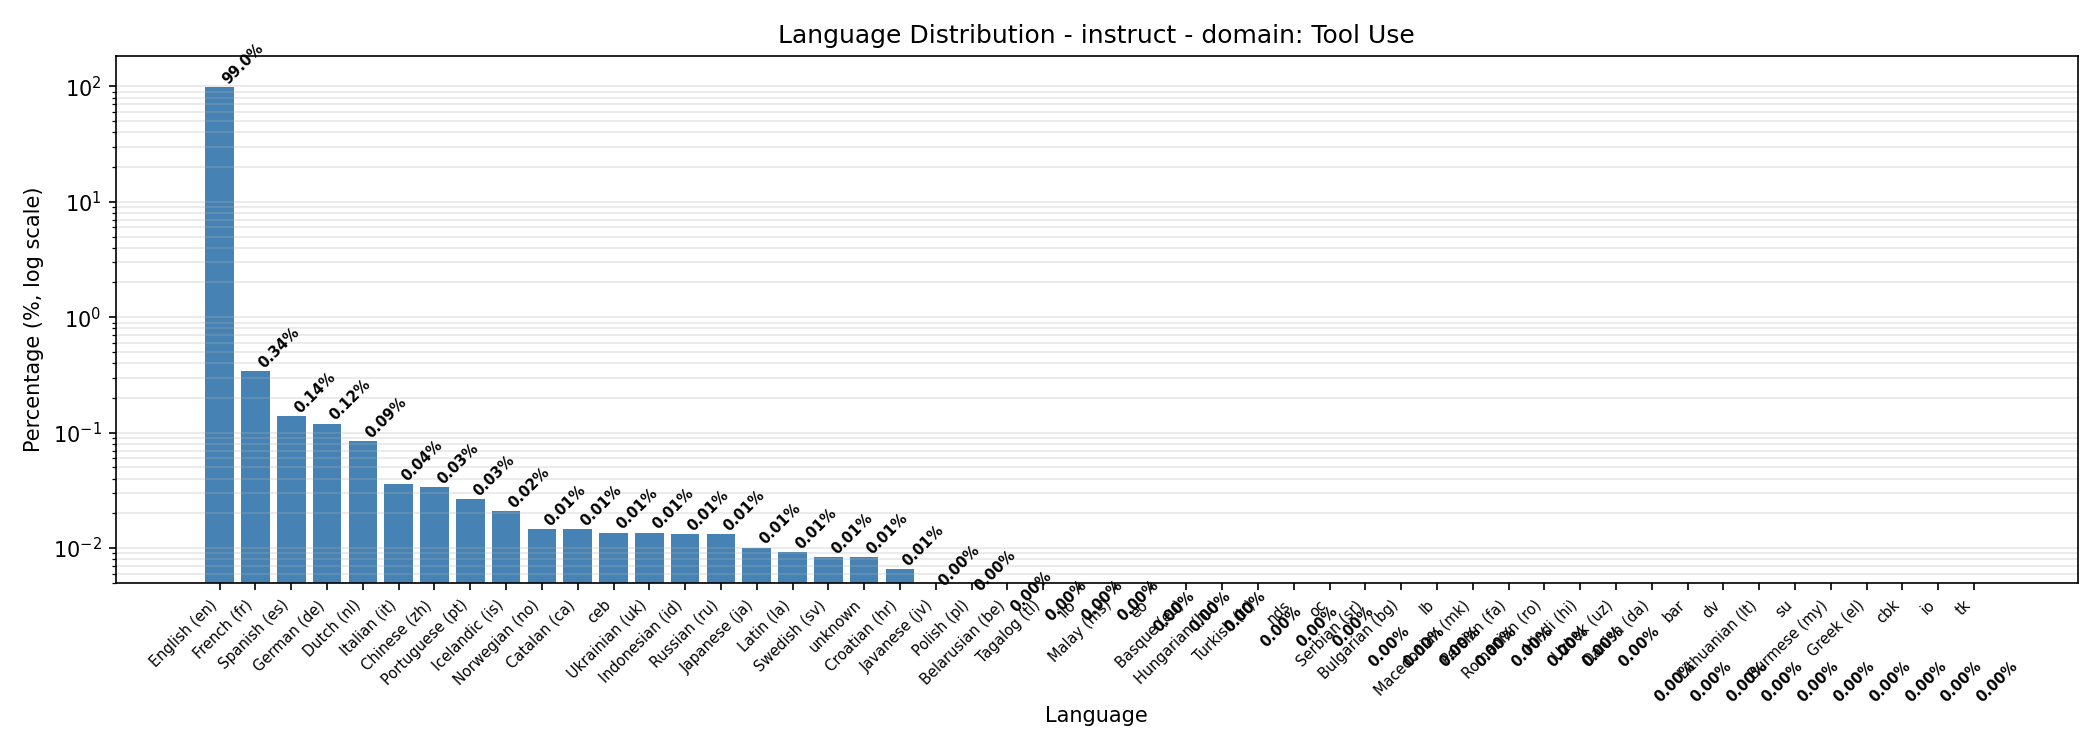
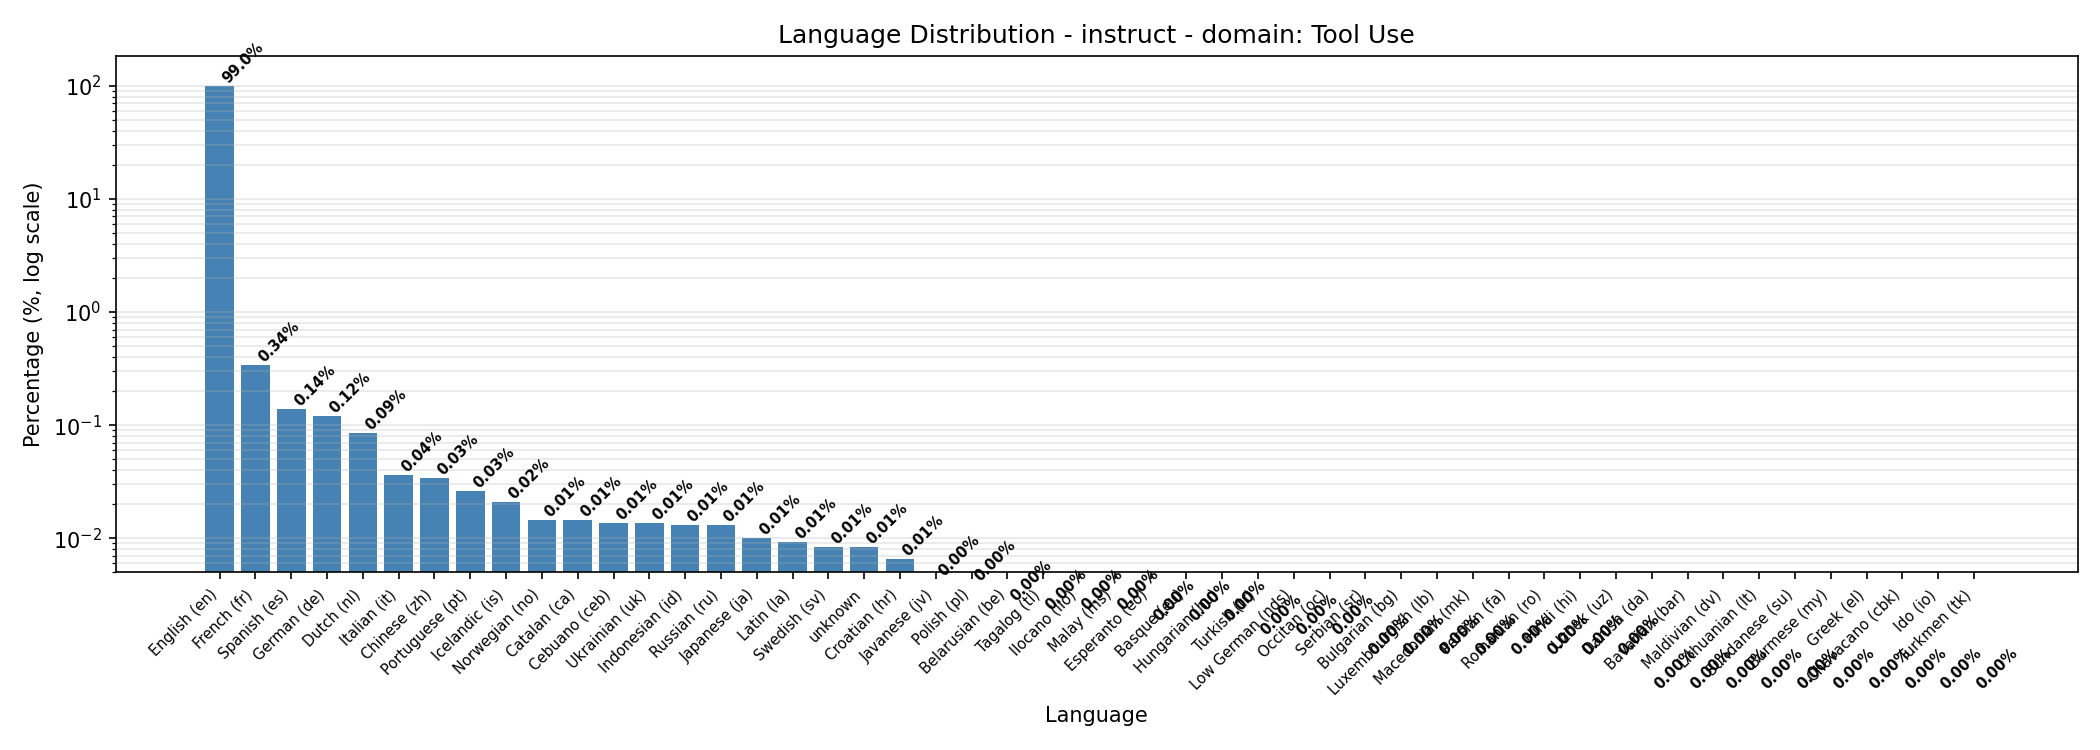
Add full language names for all 85 codes found in Dolci datasets

diff --git a/oellm/analysis/dolci_distribution/detect_language_distribution.py b/oellm/analysis/dolci_distribution/detect_language_distribution.py
@@ -52,6 +52,30 @@ LANG_NAMES = {
     "te": "Telugu", "tg": "Tajik", "th": "Thai", "tl": "Tagalog",
     "tr": "Turkish", "uk": "Ukrainian", "ur": "Urdu", "uz": "Uzbek",
     "vi": "Vietnamese", "yo": "Yoruba", "zh": "Chinese", "ky": "Kyrgyz",
+    # Additional codes found in Dolci datasets
+    "ceb": "Cebuano", "ps": "Pashto", "war": "Waray", "eo": "Esperanto",
+    "nds": "Low German", "br": "Breton", "sd": "Sindhi", "kv": "Komi",
+    "sa": "Sanskrit", "su": "Sundanese", "kw": "Cornish", "ckb": "Central Kurdish",
+    "wuu": "Wu Chinese", "tt": "Tatar", "vep": "Veps", "ilo": "Ilocano",
+    "qu": "Quechua", "jbo": "Lojban", "rm": "Romansh", "fy": "Western Frisian",
+    "io": "Ido", "lmo": "Lombard", "sh": "Serbo-Croatian", "ht": "Haitian Creole",
+    "lo": "Lao", "oc": "Occitan", "gv": "Manx", "gd": "Scottish Gaelic",
+    "pnb": "Western Punjabi", "pfl": "Palatinate German", "arz": "Egyptian Arabic",
+    "cbk": "Chavacano", "yue": "Cantonese", "lb": "Luxembourgish",
+    "ast": "Asturian", "als": "Alemannic German", "ia": "Interlingua",
+    "xal": "Kalmyk", "pms": "Piedmontese", "wa": "Walloon", "eml": "Emilian-Romagnol",
+    "gn": "Guarani", "ku": "Kurdish", "nah": "Nahuatl", "bar": "Bavarian",
+    "vec": "Venetian", "hsb": "Upper Sorbian", "nn": "Norwegian Nynorsk",
+    "pam": "Pampanga", "sc": "Sardinian", "gom": "Goan Konkani", "ie": "Interlingue",
+    "scn": "Sicilian", "li": "Limburgish", "ug": "Uyghur", "co": "Corsican",
+    "tk": "Turkmen", "lrc": "Northern Luri", "an": "Aragonese", "ba": "Bashkir",
+    "sah": "Yakut", "vo": "Volapuk", "bo": "Tibetan", "bcl": "Central Bikol",
+    "ce": "Chechen", "nap": "Neapolitan", "as": "Assamese", "min": "Minangkabau",
+    "yi": "Yiddish", "new": "Newari", "mwl": "Mirandese", "tyv": "Tuvan",
+    "mrj": "Western Mari", "diq": "Zazaki", "dv": "Maldivian", "sco": "Scots",
+    "cv": "Chuvash", "mhr": "Eastern Mari", "lez": "Lezgian", "krc": "Karachay-Balkar",
+    "vls": "West Flemish", "azb": "South Azerbaijani", "or": "Odia", "dsb": "Lower Sorbian",
+    "bh": "Bihari",
     "unknown": "unknown",
 }
 
